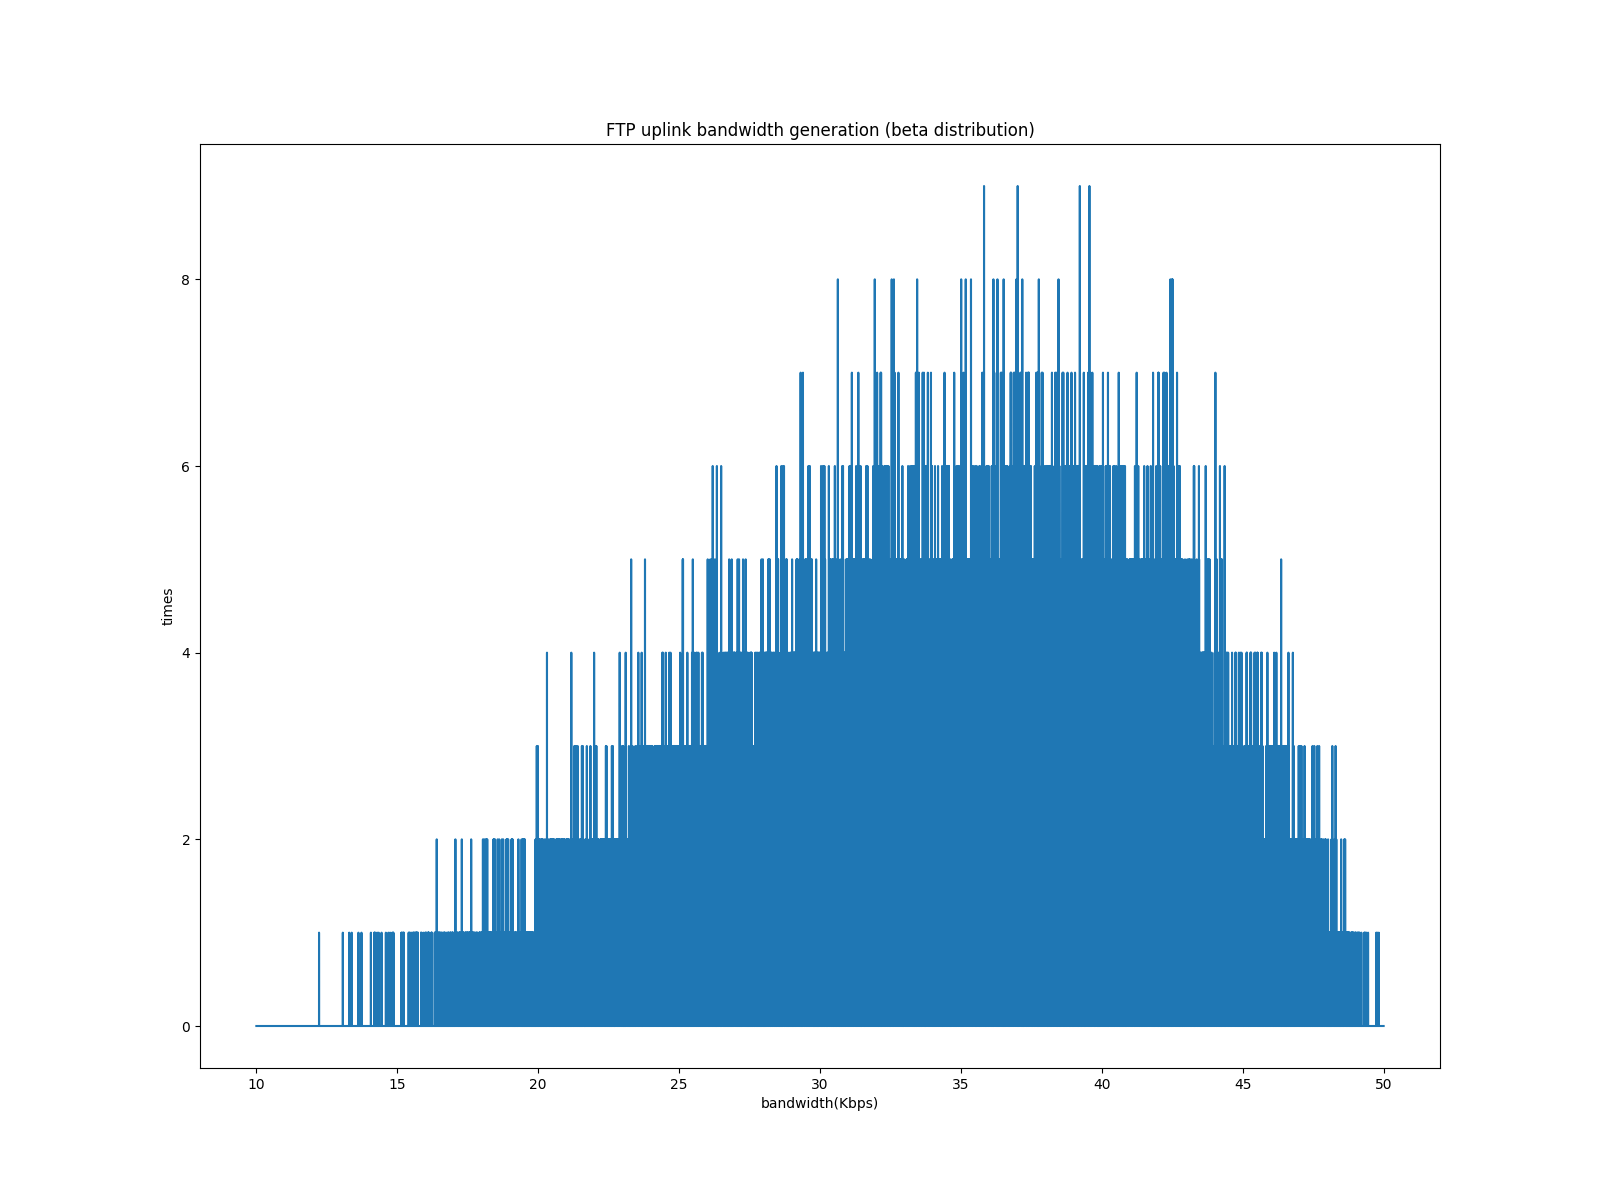
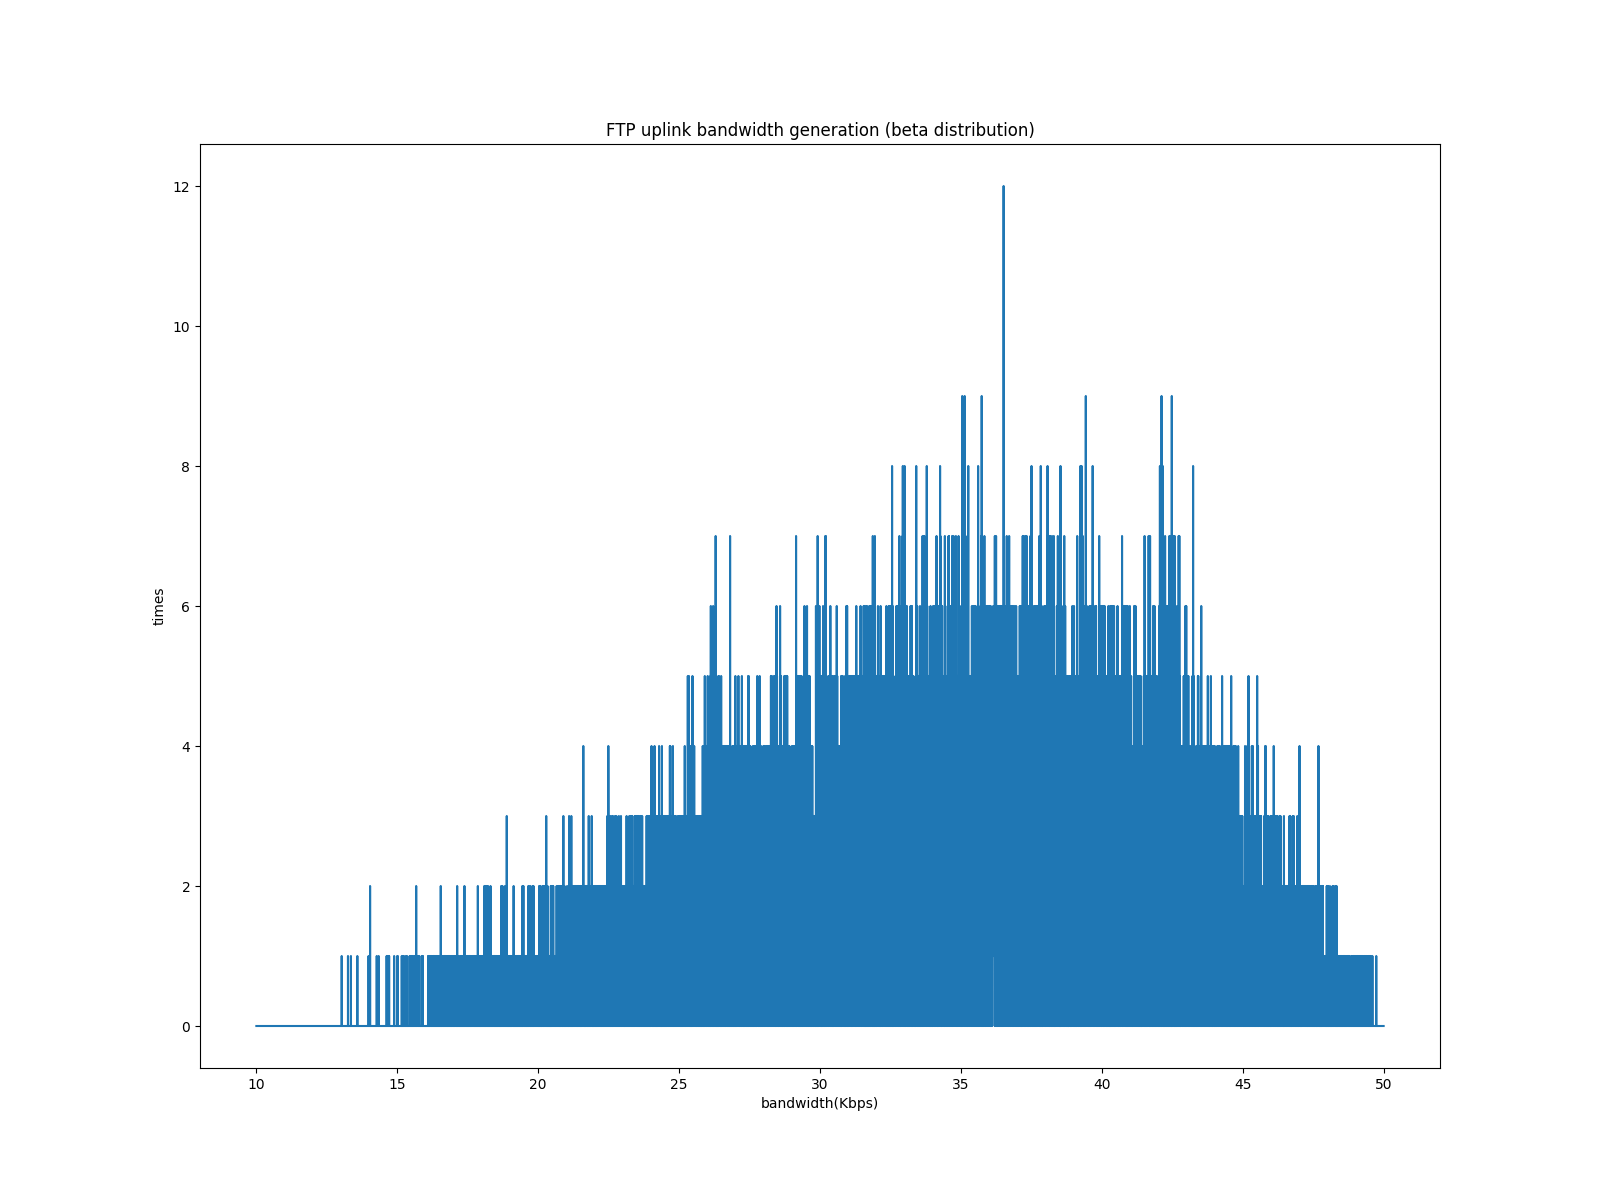
Fix throughput plotting.

Changed region(s): [[0.1875, 0.1542, 0.875, 0.8633], [0.0938, 0.4933, 0.125, 0.5242]]

diff --git a/plot_distri_utilFunc.py b/plot_distri_utilFunc.py
@@ -25,21 +25,21 @@ def beta_test():
     plt.title('User to VM bandwidth generation (beta distribution)')
     plt.xlabel('bandwidth(Mbps)')
     plt.ylabel('times')
-    plot_beta(beta_a, beta_b, beta_t, beta_d, 30000)
+    plot_beta(beta_a, beta_b, beta_t, beta_d, 40000)
     plt.savefig(f'{dir}user_to_vm_bw')
     # VoIP uplink throughput
     plt.figure(figsize=figsize)
     plt.title('VoIP uplink bandwidth generation (beta distribution)')
     plt.xlabel('bandwidth(Kbps)')
     plt.ylabel('times')
-    plot_beta(*voip_bw_up_attr, 30000)
+    plot_beta(*voip_bw_up_attr, 40000)
     plt.savefig(f'{dir}voip_bw_up')
     # VoIP downlink throughput
     plt.figure(figsize=figsize)
     plt.title('VoIP downlink bandwidth generation (beta distribution)')
     plt.xlabel('bandwidth(Kbps)')
     plt.ylabel('times')
-    plot_beta(*voip_bw_down_attr, 30000)
+    plot_beta(*voip_bw_down_attr, 40000)
     plt.savefig(f'{dir}voip_bw_down')
     # IP VIdeo uplink throughput
     plt.figure(figsize=figsize)
@@ -129,9 +129,9 @@ if __name__ == '__main__':
     utility_func_delay_test(100, 1000, UtilityFunc.VoIP.delay)
     # plt.show()
     utility_func_bw_test(50, 5000, UtilityFunc.IPVideo.bw_up)
-    utility_func_bw_test(5000, 50000, UtilityFunc.IPVideo.bw_down)
+    utility_func_bw_test(4000, 40000, UtilityFunc.IPVideo.bw_down)
     # plt.show()
     utility_func_bw_test(50, 5000, UtilityFunc.FTP.bw_up)
-    utility_func_bw_test(5000, 50000, UtilityFunc.FTP.bw_down)
+    utility_func_bw_test(4000, 40000, UtilityFunc.FTP.bw_down)
     # plt.show()
     print(f'Finished plotting, save result to {dir}!')

diff --git a/parameters.py b/parameters.py
@@ -31,8 +31,8 @@ PT5_edge_d = 1.443
 # contract
 expected_max_vm_num = 80
 expected_min_vm_num = 5
-bw_low = 3000 * expected_min_vm_num
-bw_high = 3000 * expected_max_vm_num # Kbps
+bw_low = 4000 * expected_min_vm_num
+bw_high = 4000 * expected_max_vm_num # Kbps
 cr_low = 1 * expected_min_vm_num
 cr_high = 1 * expected_max_vm_num
 
@@ -61,9 +61,9 @@ voip_bw_down_bmin = 64
 ipVideo_bw_up_bmin = 5
 ipVideo_bw_up_bmax = 50
 ipVideo_bw_down_bmin = 24
-ipVideo_bw_down_bmax = 5000
+ipVideo_bw_down_bmax = 4000
 ftp_bw_up_bmax = 50
-ftp_bw_down_bmax = 5000
+ftp_bw_down_bmax = 4000
 
 # update history data
 phi = 0.9

diff --git a/baselines/Random/parameters.py b/baselines/Random/parameters.py
@@ -31,8 +31,8 @@ PT5_edge_d = 1.443
 # contract
 expected_max_vm_num = 80
 expected_min_vm_num = 5
-bw_low = 5000 * expected_min_vm_num
-bw_high = 5000 * expected_max_vm_num # Kbps
+bw_low = 4000 * expected_min_vm_num
+bw_high = 4000 * expected_max_vm_num # Kbps
 cr_low = 1 * expected_min_vm_num
 cr_high = 1 * expected_max_vm_num
 
@@ -61,9 +61,9 @@ voip_bw_down_bmin = 5
 ipVideo_bw_up_bmin = 5
 ipVideo_bw_up_bmax = 50
 ipVideo_bw_down_bmin = 24
-ipVideo_bw_down_bmax = 5000
+ipVideo_bw_down_bmax = 4000
 ftp_bw_up_bmax = 50
-ftp_bw_down_bmax = 5000
+ftp_bw_down_bmax = 4000
 
 # update history data
 phi = 0.9

diff --git a/baselines/VM Load Balance/parameters.py b/baselines/VM Load Balance/parameters.py
@@ -31,8 +31,8 @@ PT5_edge_d = 1.443
 # contract
 expected_max_vm_num = 80
 expected_min_vm_num = 5
-bw_low = 5000 * expected_min_vm_num
-bw_high = 5000 * expected_max_vm_num # Kbps
+bw_low = 4000 * expected_min_vm_num
+bw_high = 4000 * expected_max_vm_num # Kbps
 cr_low = 1 * expected_min_vm_num
 cr_high = 1 * expected_max_vm_num
 
@@ -61,9 +61,9 @@ voip_bw_down_bmin = 5
 ipVideo_bw_up_bmin = 5
 ipVideo_bw_up_bmax = 50
 ipVideo_bw_down_bmin = 24
-ipVideo_bw_down_bmax = 5000
+ipVideo_bw_down_bmax = 4000
 ftp_bw_up_bmax = 50
-ftp_bw_down_bmax = 5000
+ftp_bw_down_bmax = 4000
 
 # update history data
 phi = 0.9
